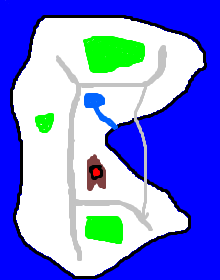
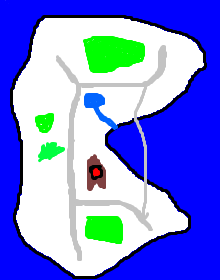
...swamps!

Changed region(s): [[0.1636, 0.4857, 0.3, 0.6]]

diff --git a/brownsauce.js b/brownsauce.js
@@ -2363,7 +2363,7 @@ function squad() {
     this.kickBack=function(esqd){
 
 	function booTile(x, y) {
-	    return ((maps[0].tiles[x][y].data==TileType.Mountains) || (maps[0].tiles[x][y].data==TileType.Ocean));
+	    return ((maps[0].tiles[x][y].data==TileType.Mountains) || (maps[0].tiles[x][y].data==TileType.Ocean)||(maps[0].tiles[x][y].data==TileType.Lava));
 	};
 
 	var newX, newY;
@@ -2777,7 +2777,7 @@ function Map(I) { //map object
     };
 	
 	I.walkable=function(x,y){
-		if((I.tiles[x][y].data!=TileType.Mountains) &&(I.tiles[x][y].data!=TileType.Ocean)) {return true;}
+		if((I.tiles[x][y].data!=TileType.Mountains) &&(I.tiles[x][y].data!=TileType.Ocean) &&(I.tiles[x][y].data!=TileType.Lava)) {return true;}
 		return false;
 	}
 	
@@ -2908,7 +2908,9 @@ function Map(I) { //map object
 			I.setTile(xPos, yPos, TileType.Plains);
 		  } else if (( rgba[0]==255) && (rgba[1]==1) && (rgba[2]==1)){
 			I.setTile(xPos, yPos, TileType.Lava);
-		  }  else {
+		  } else if (( rgba[0]==1) && (rgba[1]==255) && (rgba[2]==64)){
+			I.setTile(xPos, yPos, TileType.Swamp);
+		  } else {
 			I.setTile(xPos, yPos, TileType.Grass);
 		  }
 		}
